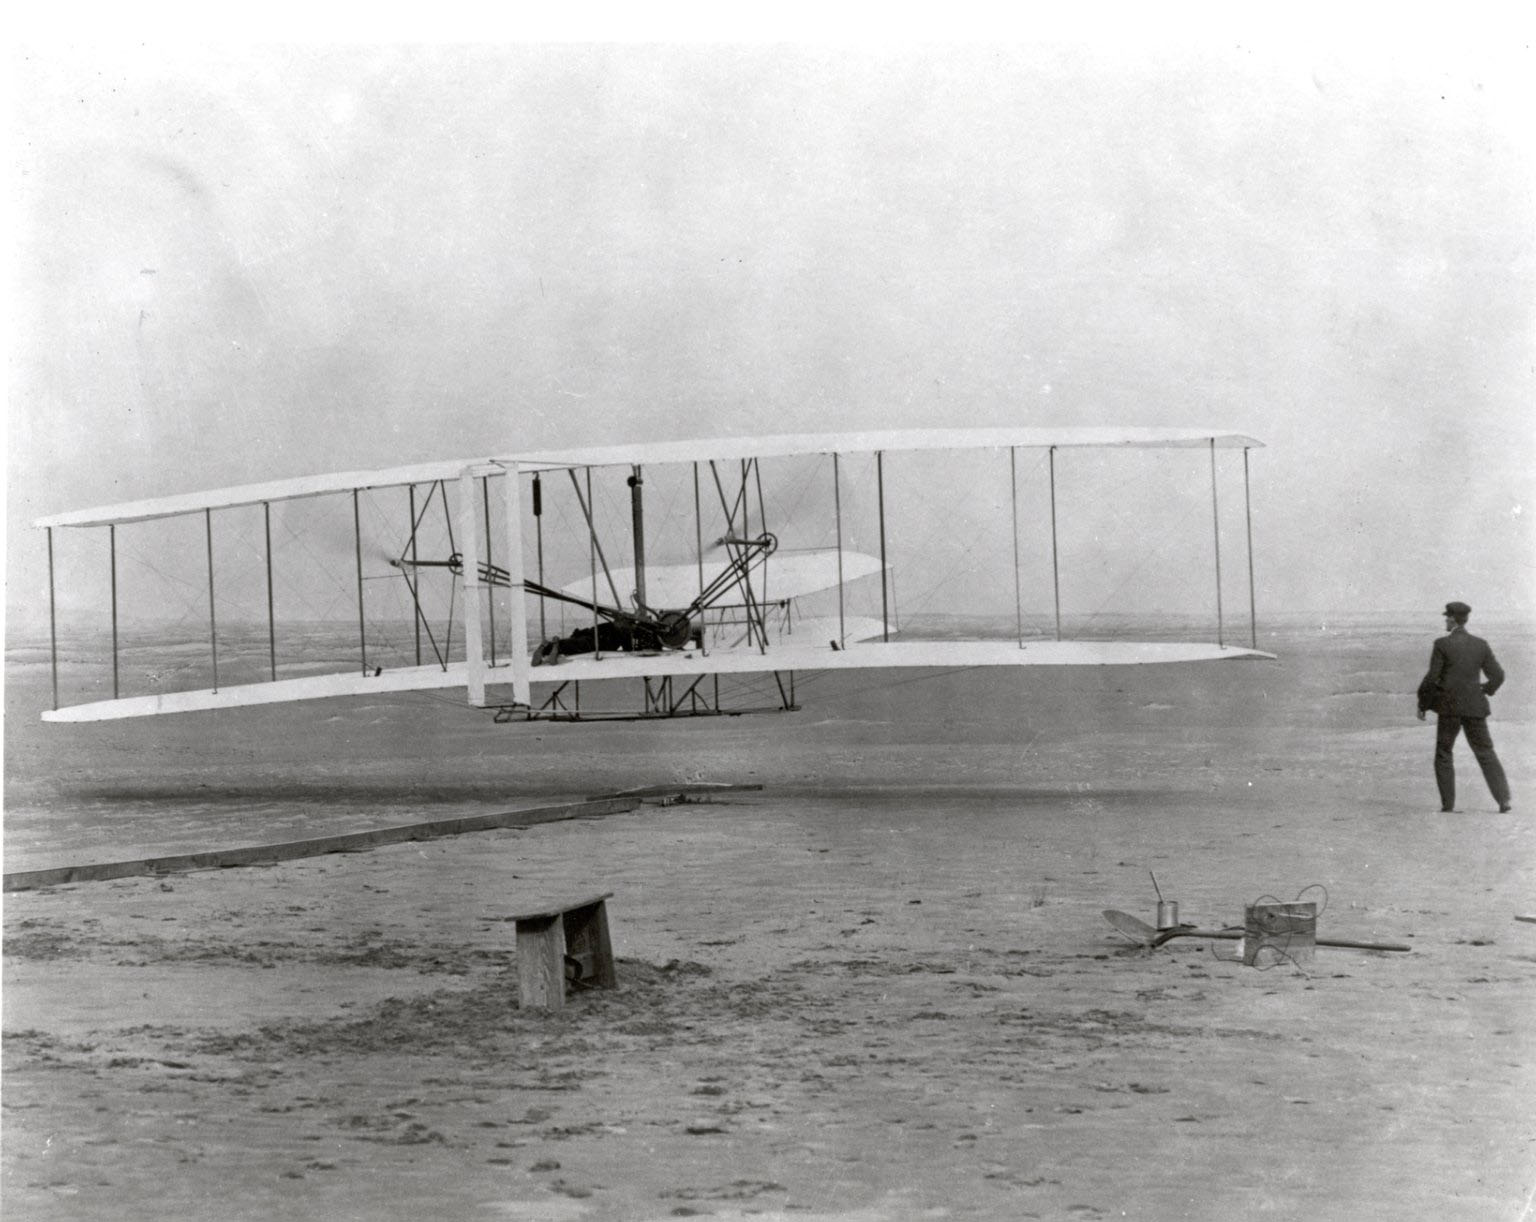
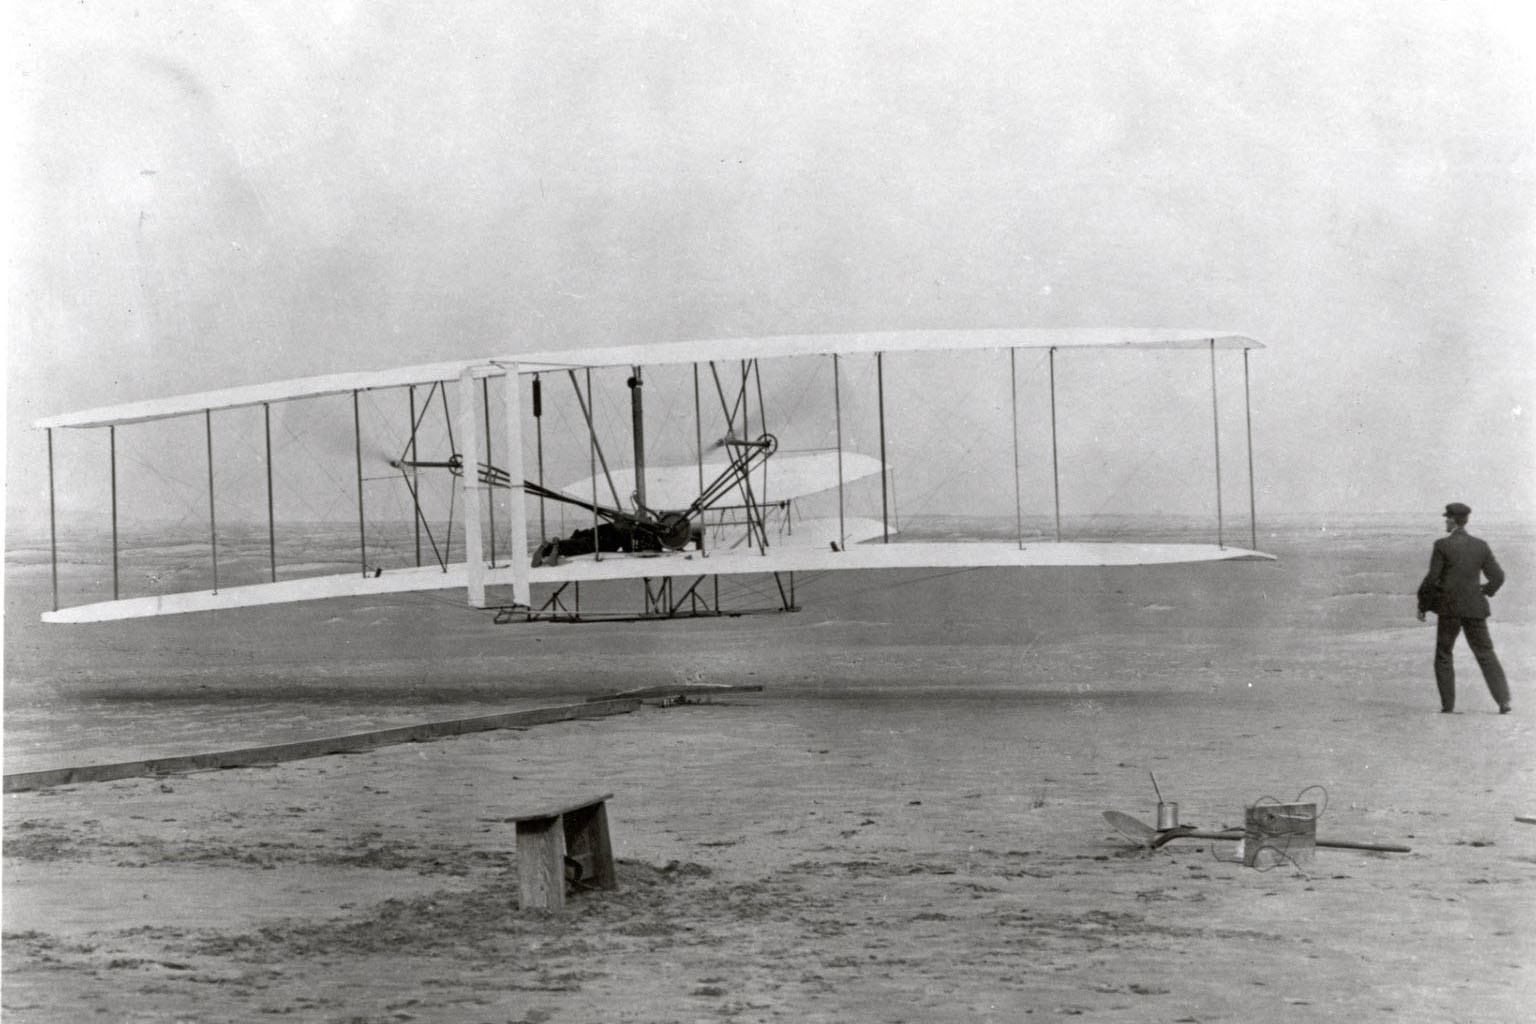
modified css for trips page in larger view, modified 1 image, redid classes to accommodate needs for cards

diff --git a/temporalJavaScripts.js b/temporalJavaScripts.js
@@ -68,15 +68,15 @@ var stringHTML= "";
 function iterateThroughArray(arr) {
 for (var i=0; i<cardArray.length; i++) {
 
-	var message = `<div class="tour" id="${cardArray[i].id}">
+	var message = `<div class="tour card" id="${cardArray[i].id}">
 				<img src="${cardArray[i].url}" alt="${cardArray[i].name}">
 			  
-			  <div class="container">
+			  <div class="containerp">
 			   	<h4>${cardArray[i].name}</h4> 
 			   	<h4>${cardArray[i].price}</h4>
 			  </div><!--end of container-->
 			  
-			  <div class="description">
+			  <div class="descriptionp">
 			 	 	<p>${cardArray[i].description}</p>
 			  </div>
 

diff --git a/styles.css b/styles.css
@@ -85,9 +85,12 @@ footer p{
 .tour {
   margin-top:20px;
   border: 1px solid black;
-  padding-right: 12px;
+  
 }
 
+.padding{
+  padding-right: 12px;
+}
 
 .tour a {
   text-align: center;
@@ -99,7 +102,18 @@ footer p{
 background-color:purple;
 color:#fdf8be;
 
+
 }
+
+
+.containerp{
+  text-align: center;
+}
+
+.descriptionp{
+  height:170px;
+}
+
 
 
 /*Guides and about page styles*/
@@ -191,12 +205,27 @@ color:#fdf8be;
          }
 
 
+
+  .card{
+    width:46%;
+  margin:1%;
+   float:left;
+   height: auto;
+
+}
+
+
+
 .customtour {
   clear: both;
+  margin-top: 20px;
 }
 
 
+
+
 }
+
 
 }
 

diff --git a/index.html b/index.html
@@ -30,7 +30,7 @@
 		</section>
 
 
-		<section class="basictour" >
+		<section class="landingpagetour" >
 
 			
 			<div class="tour">
